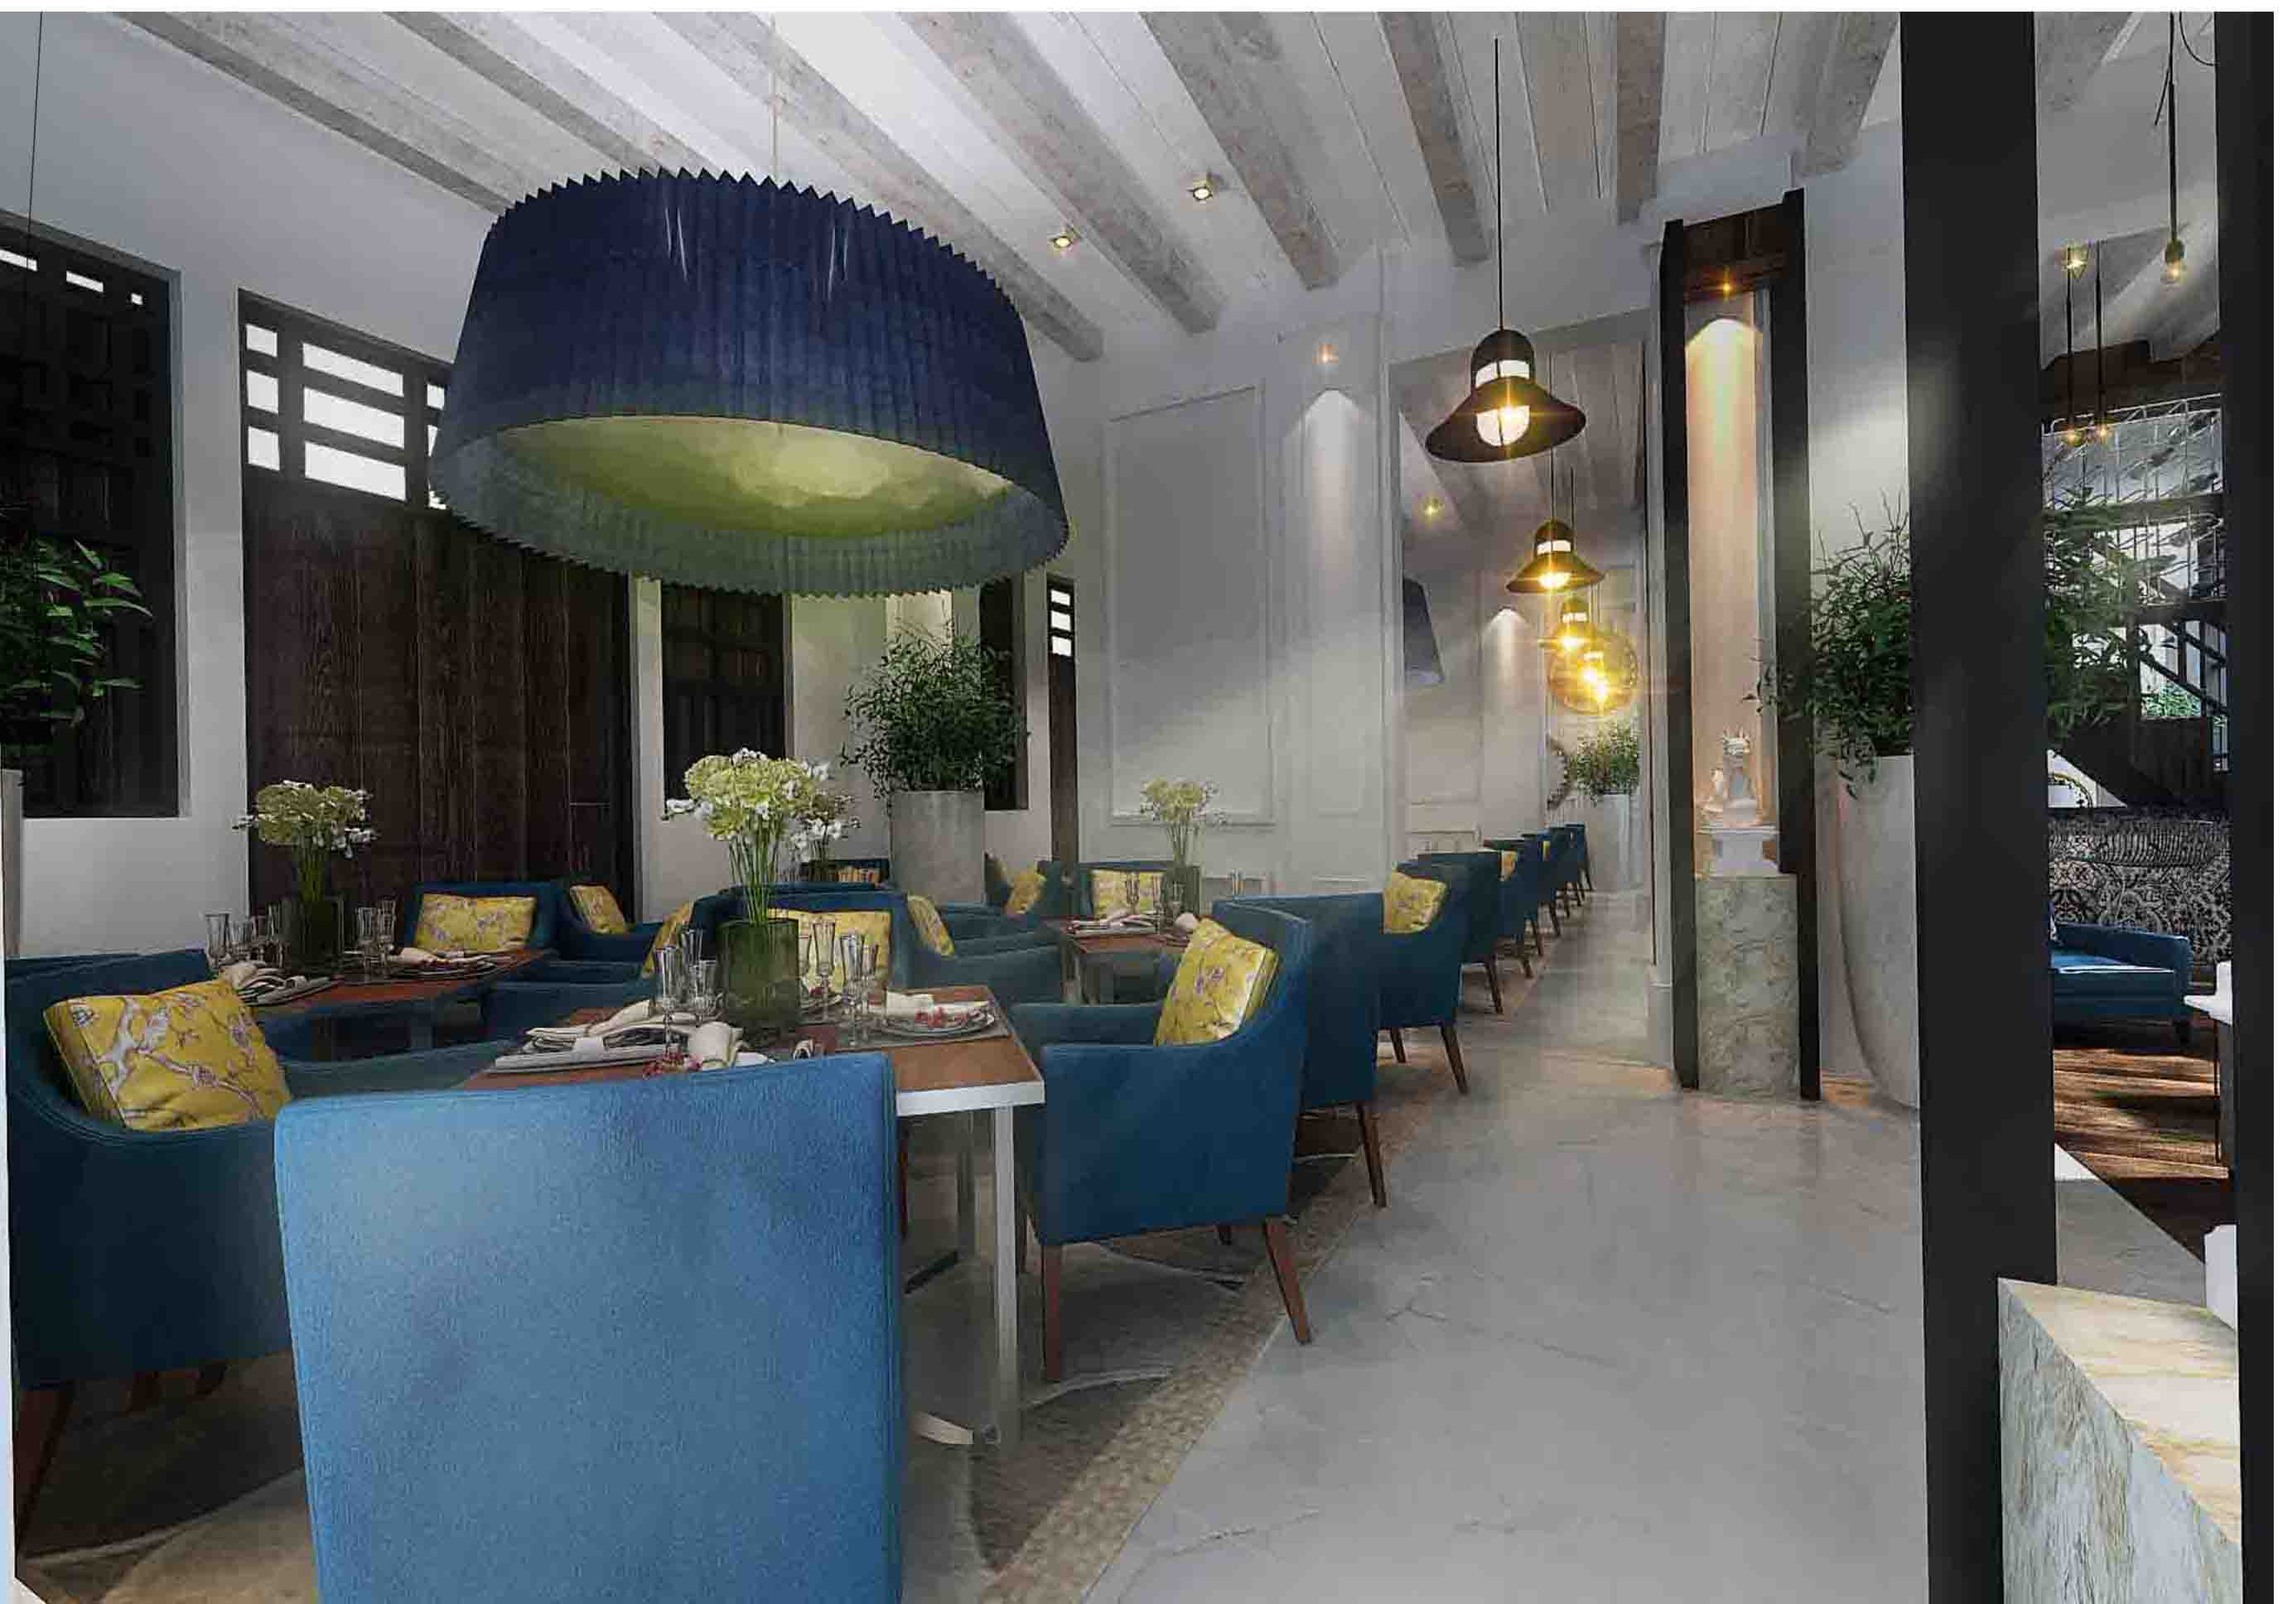
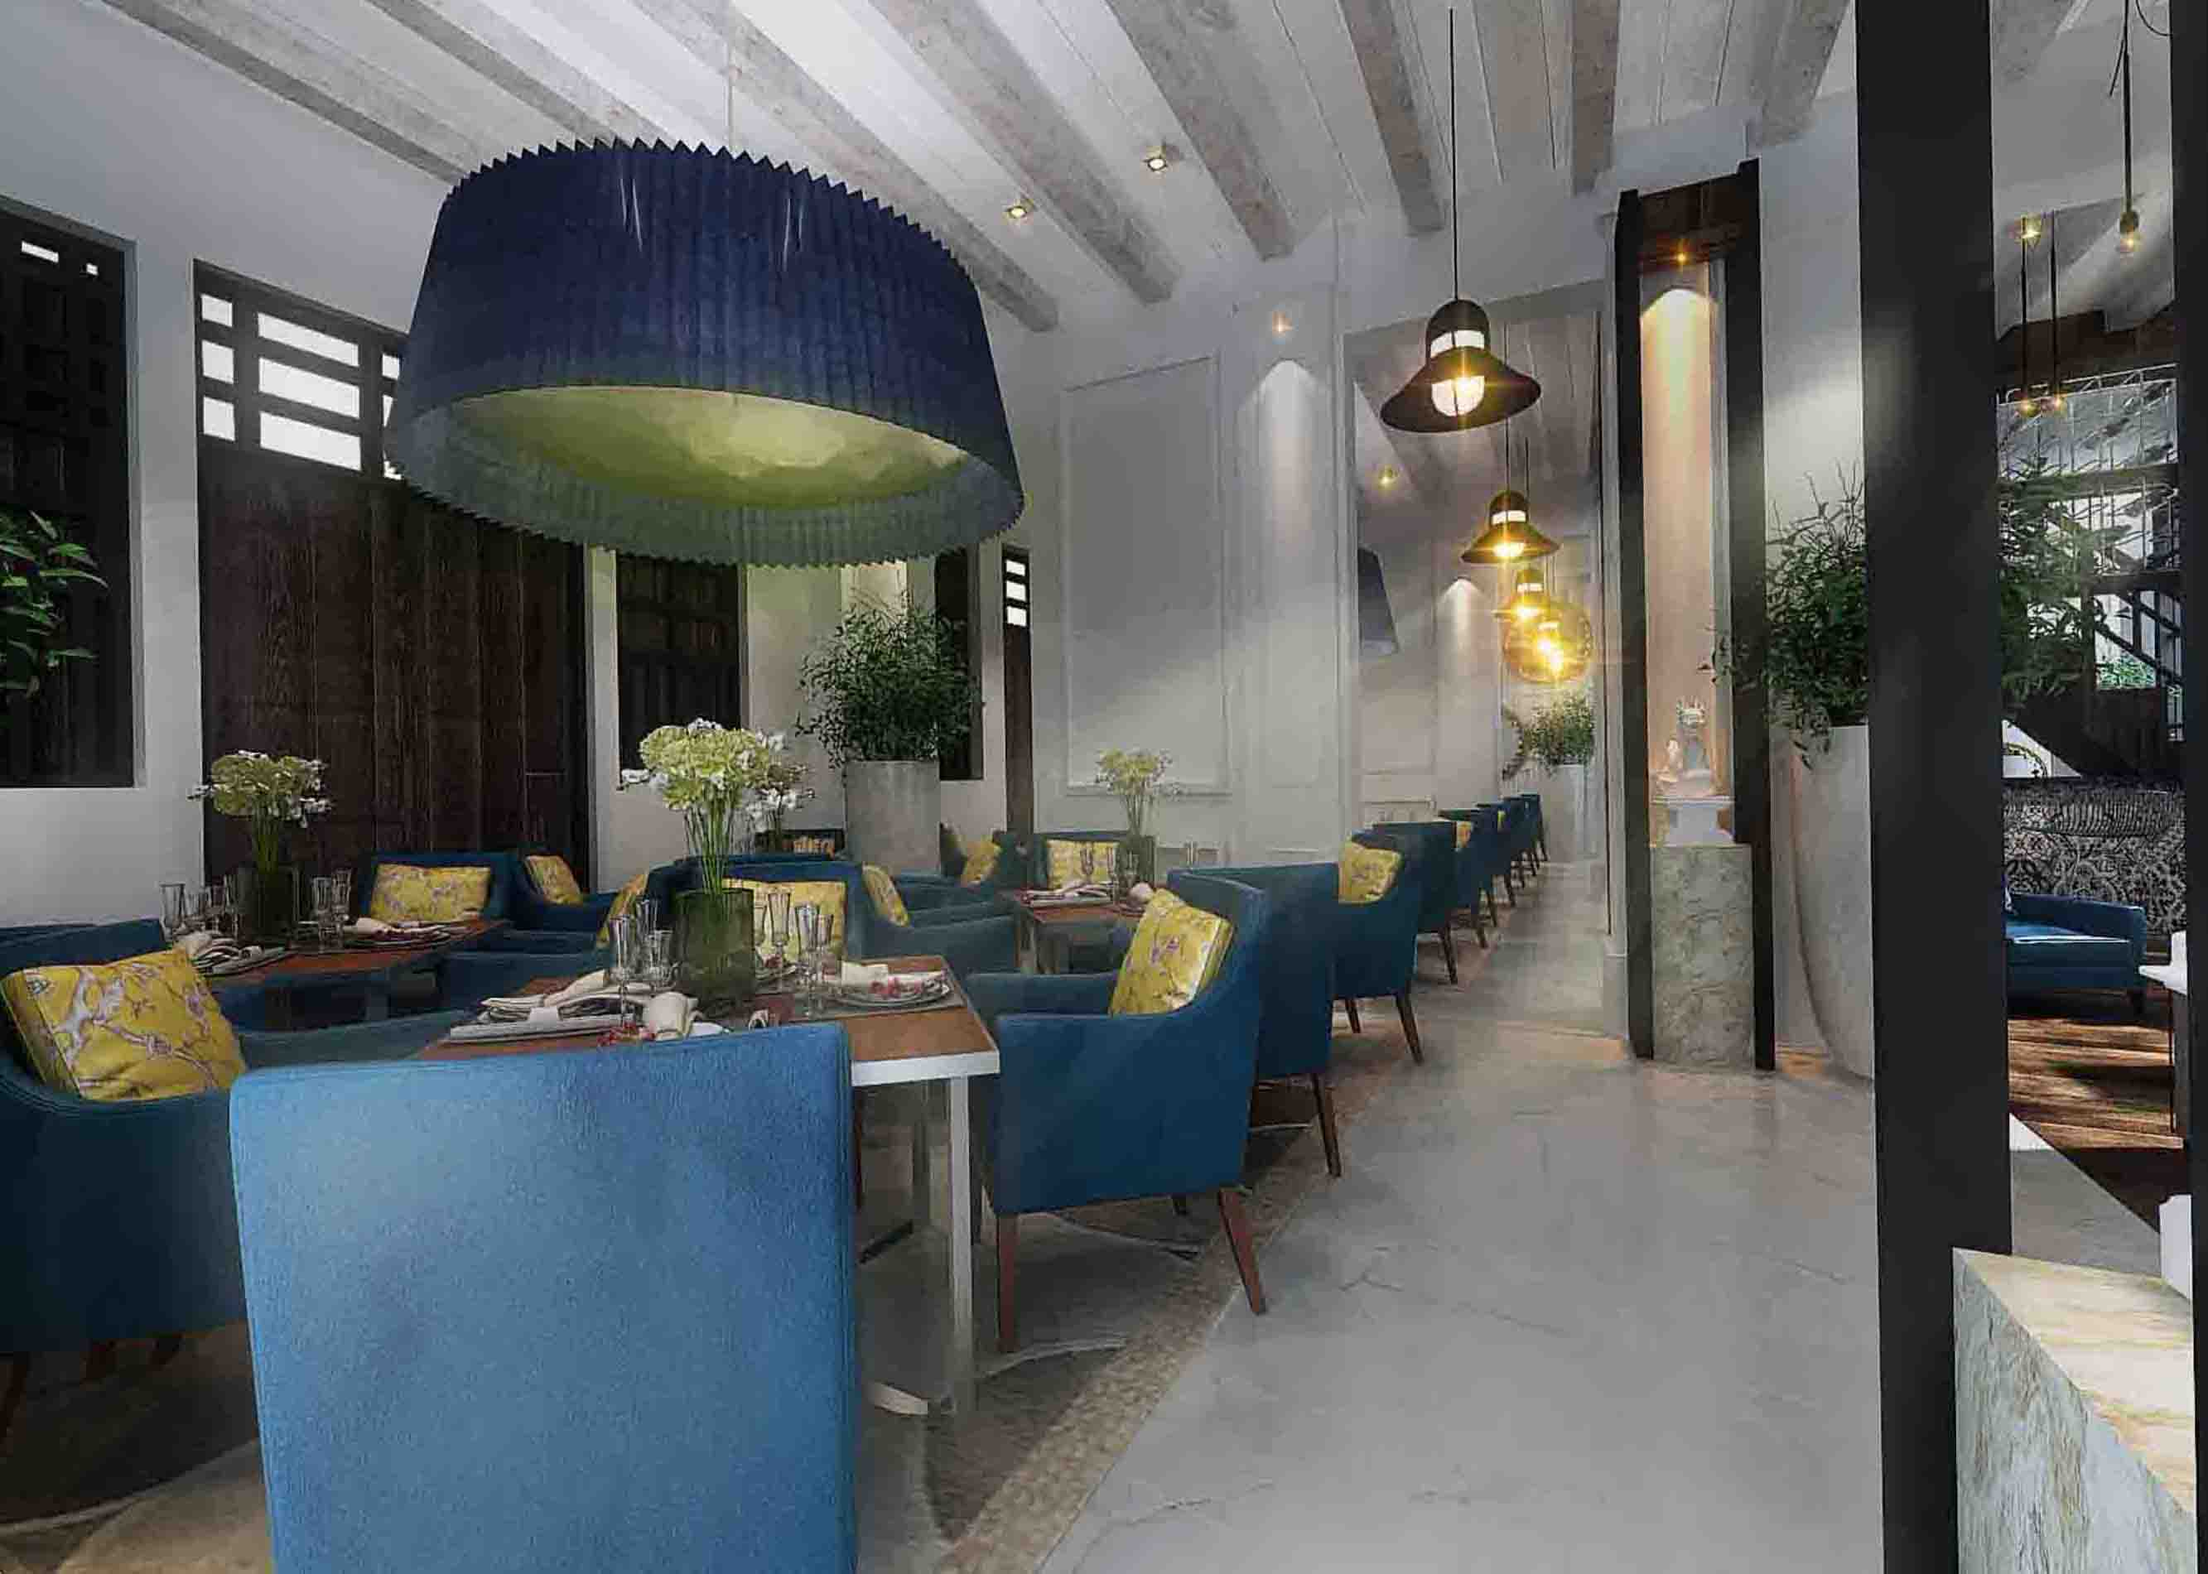
Add edited photos of Tokong Hotel to work.html

Changed region(s): [[0.0, 0.0, 1.0, 1.0], [0.1557, 0.4345, 0.1868, 0.4655]]

diff --git a/work.html b/work.html
@@ -90,8 +90,8 @@
                         <figure class="gallery-img col-sm-6 col-md-4 col-lg-3">
                             <a data-fancybox="gallery"
                                 data-caption="Lounge area with the view of the central courtyard | © 2021 Copyright Sara Namdarian"
-                                href="assets/images/gallery/Hotel-Foyer-lg.jpg">
-                                <img class="gallery-thumbnail" src="assets/images/gallery/Hotel-Foyer-sm.jpg"
+                                href="assets/images/gallery/Hotel-courtyard-lg.jpg">
+                                <img class="gallery-thumbnail" src="assets/images/gallery/Hotel-courtyard-sm.jpg"
                                     alt="Botique Hotel Foyer">
                             </a>
                         </figure>

diff --git a/assets/css/style.css b/assets/css/style.css
@@ -389,6 +389,6 @@ ul {
 @media screen and (min-width: 600px) {
     .gallery-img img {
         height: 198px !important;
-        width: auto;
+        width: 260px; 
     }
 }
